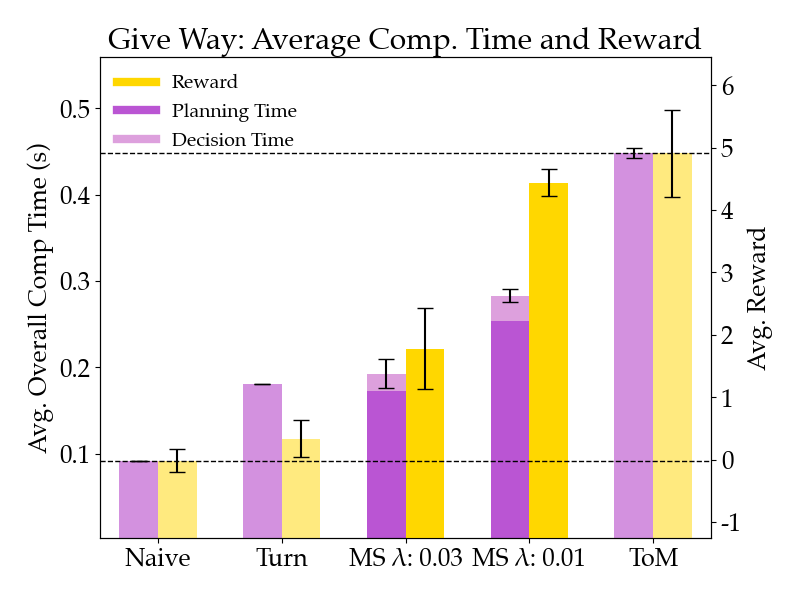
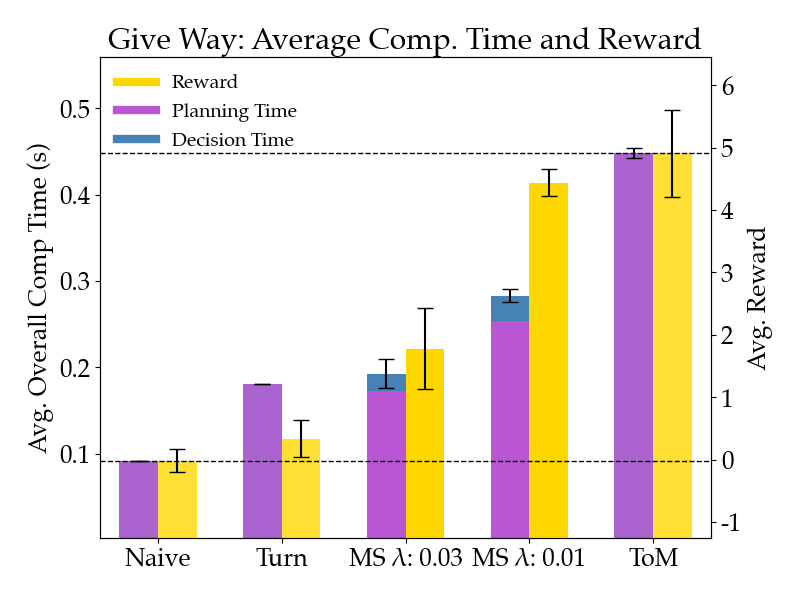
changed colors

diff --git a/experiments/logs/display_results.py b/experiments/logs/display_results.py
@@ -52,11 +52,11 @@ plt.rcParams.update({'hatch.linewidth': 3,
                      'font.family': 'palatino',
                      'font.size': 18,
                      'figure.figsize': (8, 6)})
-P_STYLE = {'alpha': 0.5}
+P_STYLE = {'alpha': 0.8}
 
 RC = 'gold'
 PTC = 'mediumorchid'
-DTC = 'plum'
+DTC = 'steelblue'
 
 N = len(names)
 bar_width = 0.25
